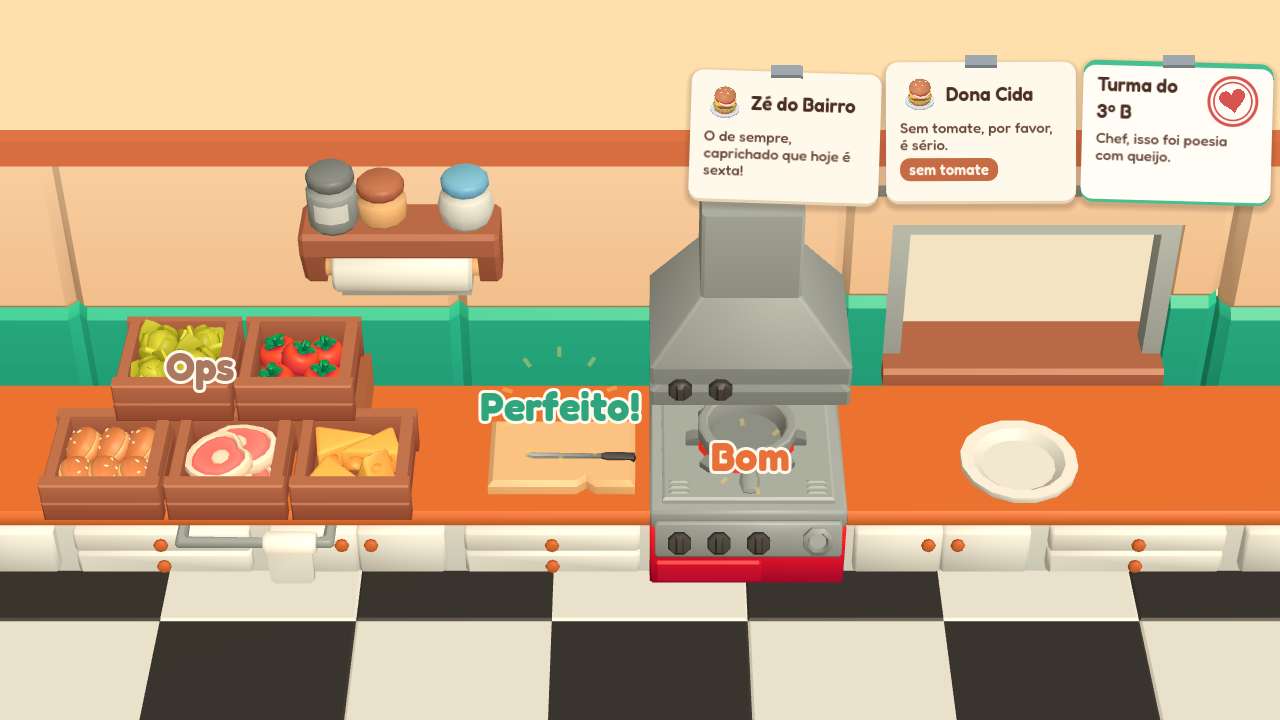
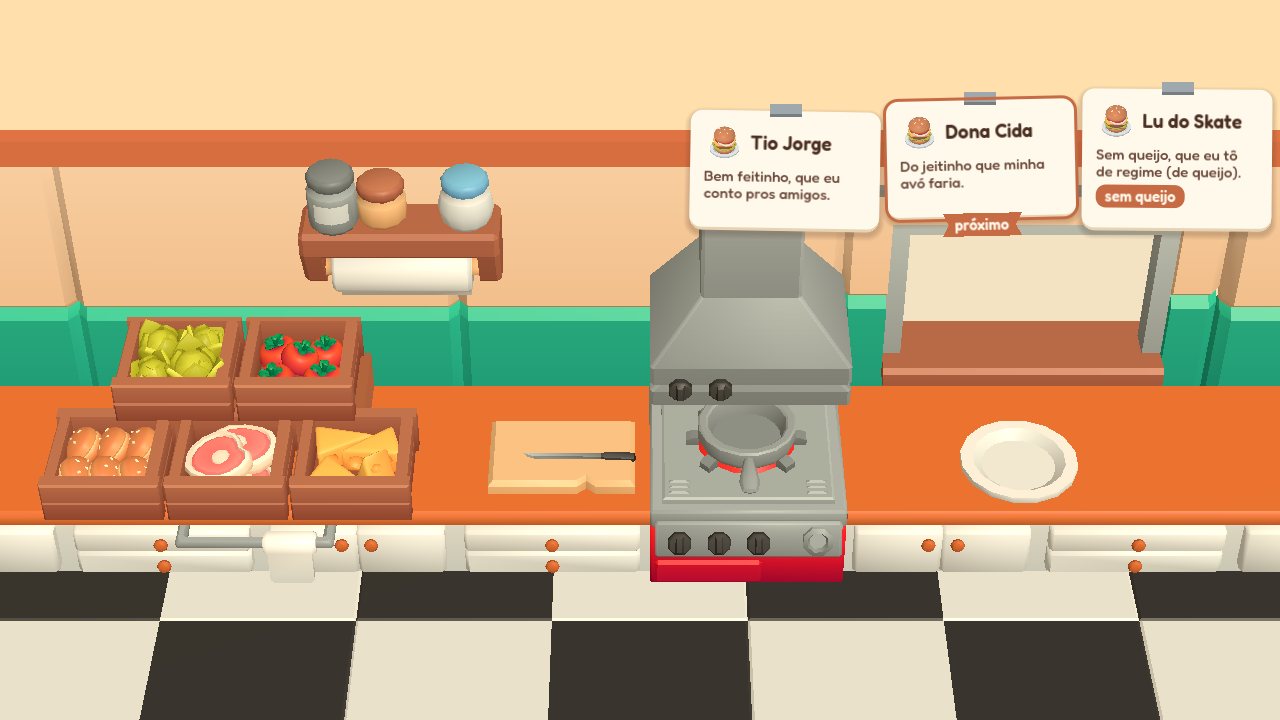
T-010 ressalvas do QA do M1: destaque do próximo bilhete e bilhetes legíveis em telas baixas; 90 testes (BRF-009)

diff --git a/docs/backlog.md b/docs/backlog.md
@@ -11,4 +11,4 @@
 | T-007 | Interação na cena: arrastar, picar, virar, montar e servir (tam. M) | M1 | AG01 | feita |
 | T-008 | UI: toque para começar, bilhetes no trilho, bilhete-resposta, aviso de girar o celular (tam. M) | M1 | AG02 | feita |
 | T-009 | Validação do M1 e tag v0.1.0 (tam. P) | M1 | AG03 + AG00 | feita (passa com ressalvas → T-010) |
-| T-010 | Ressalvas do QA do M1: destaque do próximo bilhete e legibilidade em telas baixas (tam. P) | M1 | AG02 | em andamento |
+| T-010 | Ressalvas do QA do M1: destaque do próximo bilhete e legibilidade em telas baixas (tam. P) | M1 | AG02 | feita |
